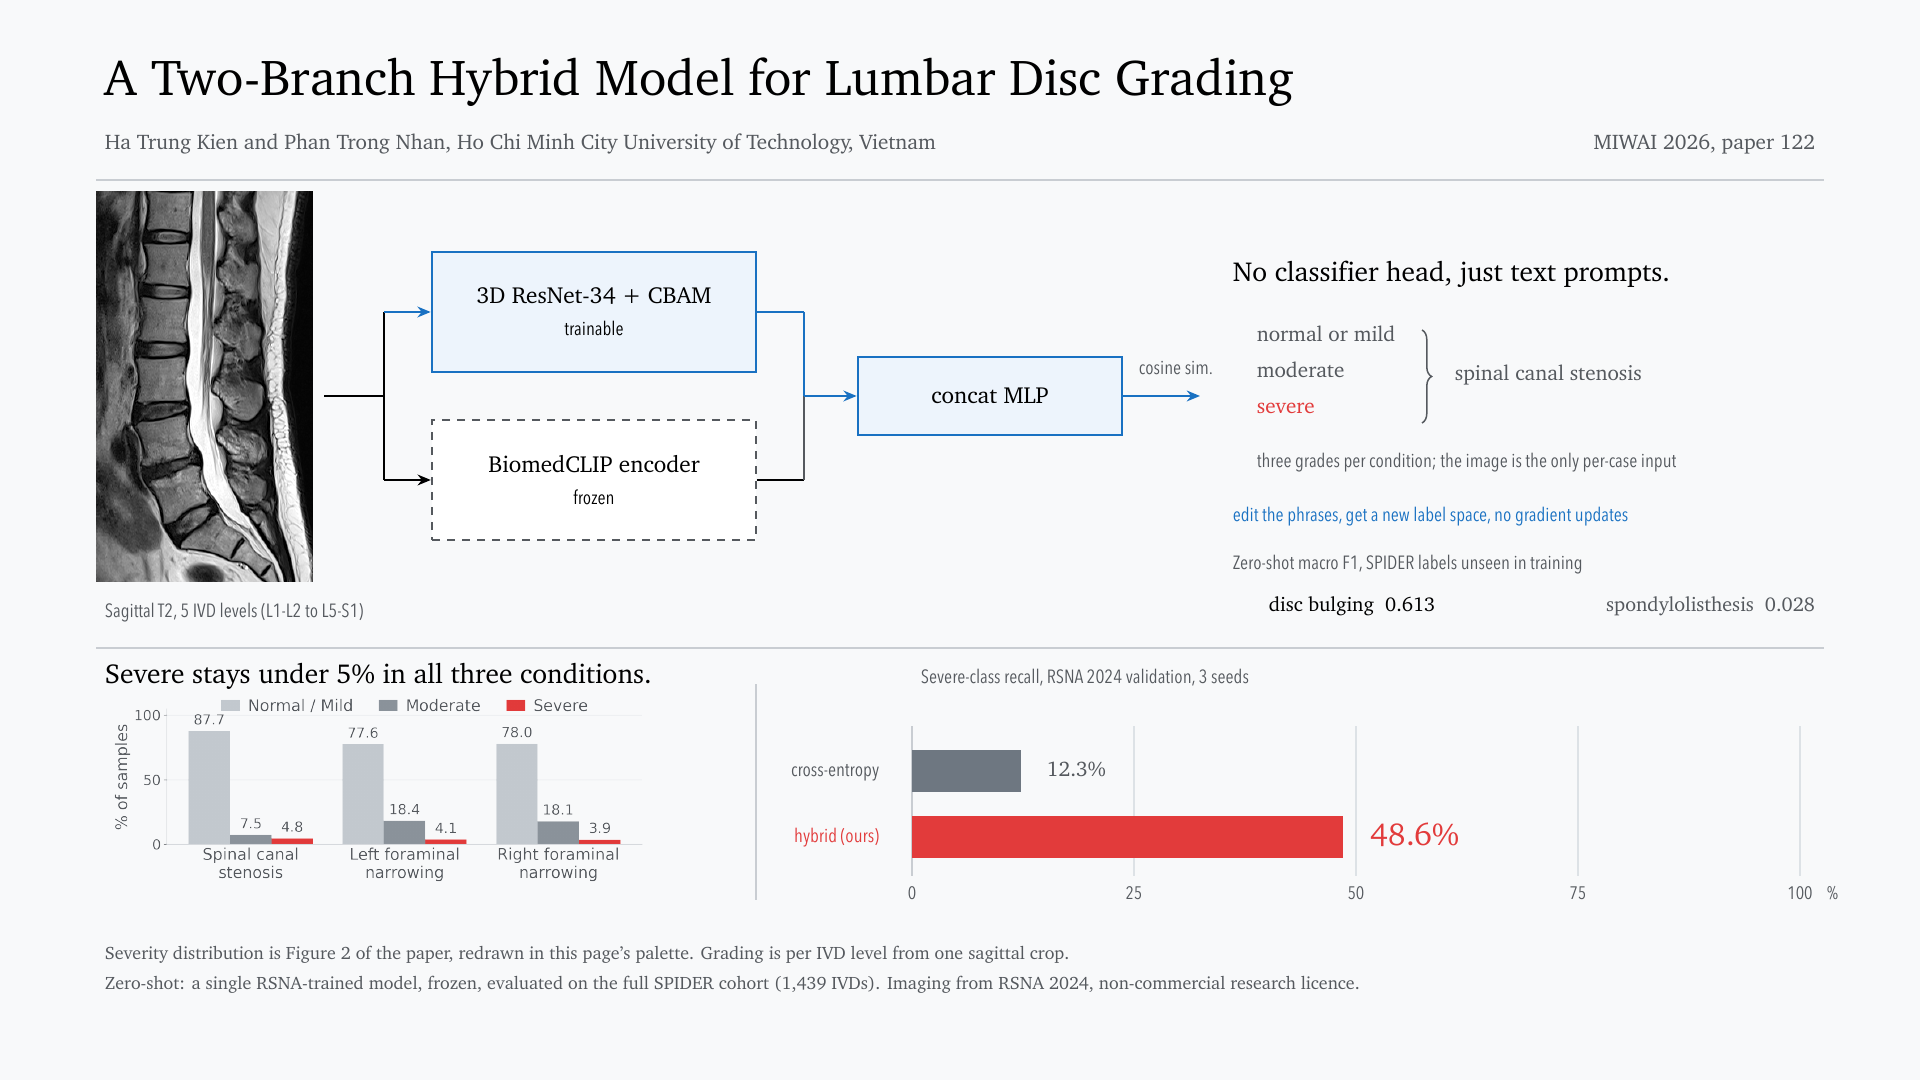
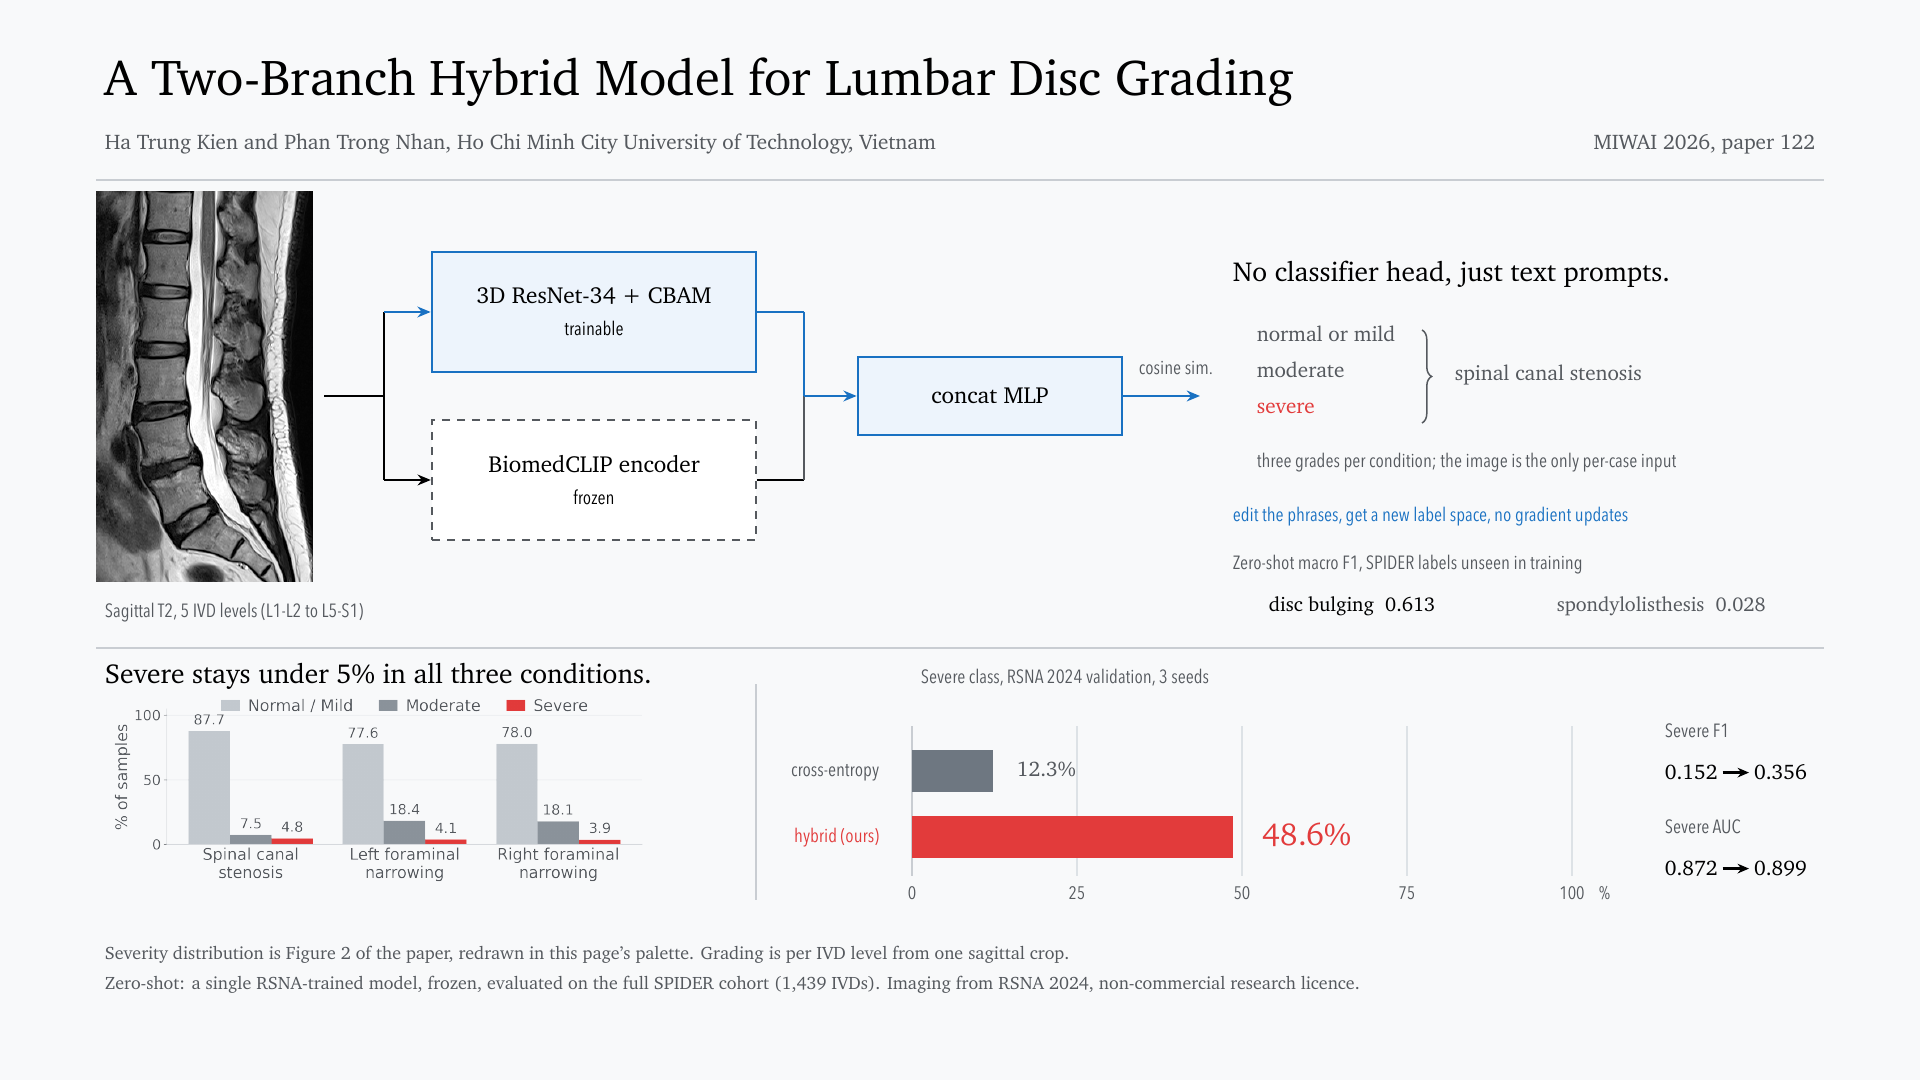
miwai(async): shorten the recall chart, add two metrics, join the zero-shot pair
The recall axis ran 148mm for one number. It is 110mm now, and the width it
gives back carries Severe F1 and Severe AUC from Table 1, so the band reports
three Severe metrics instead of one. AUC is included precisely because it
barely moves: 0.872 to 0.899 says the ranking was already decent and what the
recipe fixed was the operating point, which is the honest reading of the
result.

The two zero-shot numbers sat at opposite edges of the block and read as two
unrelated facts. They are adjacent now.

The arrow macro had been deleted along with the displayed equation and was
still referenced, and the new arrows repeated the swallowed-space bug from the
first time: LaTeX eats the space after a control word, so they set solid
against the digits.

diff --git a/paper/camera_ready/miwai_async/infographic.tex b/paper/camera_ready/miwai_async/infographic.tex
@@ -59,6 +59,9 @@
 \definecolor{waffle}{HTML}{C3C9CF}
 \definecolor{grid}{HTML}{DDE2E6}
 
+\newcommand{\arr}{\raisebox{0.18ex}{\tikz[baseline=-0.55ex]
+  \draw[-{Stealth[length=1.9mm,width=1.6mm]},line width=0.5mm](0,0)--(4.4mm,0);}}
+
 \begin{document}
 \begin{tikzpicture}[x=1mm,y=1mm,
   box/.style={draw=trained, line width=0.45mm, fill=trainedbg, minimum height=20mm,
@@ -154,7 +157,7 @@
 \node[anchor=base west, text=ink70, font=\cond\fontsize{9}{11}\selectfont]
      at (204,85) {Zero-shot macro F1, SPIDER labels unseen in training};
 \node[anchor=base west, font=\fontsize{9.5}{12}\selectfont] at (210,78) {disc bulging \ 0.613};
-\node[anchor=base east, text=ink70, font=\fontsize{9.5}{12}\selectfont] at (304,78) {spondylolisthesis \ 0.028};
+\node[anchor=base west, text=ink70, font=\fontsize{9.5}{12}\selectfont] at (258,78) {spondylolisthesis \ 0.028};
 
 \draw[rule, line width=0.2mm] (16,72) -- (304,72);
 
@@ -172,24 +175,32 @@
 \draw[rule, line width=0.2mm] (126,30) -- (126,66);
 
 % A real axis instead of a track: gridlines carry the scale, so the bars can
-% be solid and dark enough to read.
+% be solid and dark enough to read. The axis is 110mm rather than 148mm, which
+% was a lot of page for a single metric; the width it gives back holds the two
+% other Severe numbers from Table 1 of the paper.
 \node[anchor=base west, text=ink70, font=\cond\fontsize{9}{11}\selectfont]
-     at (152,66) {Severe-class recall, RSNA 2024 validation, 3 seeds};
+     at (152,66) {Severe class, RSNA 2024 validation, 3 seeds};
 
-\foreach \x in {189,226,263,300} \draw[grid, line width=0.2mm] (\x,34) -- (\x,59);
+\foreach \x in {179.5,207,234.5,262} \draw[grid, line width=0.2mm] (\x,34) -- (\x,59);
 \draw[rule, line width=0.3mm] (152,34) -- (152,59);
 
-\fill[bar2]   (152,48) rectangle ++(18.2,7);
-\fill[signal] (152,37) rectangle ++(71.9,7);
+\fill[bar2]   (152,48) rectangle ++(13.5,7);
+\fill[signal] (152,37) rectangle ++(53.5,7);
 
 \node[anchor=base east, text=ink70, font=\cond\fontsize{9}{11}\selectfont] at (148,50.5) {cross-entropy};
 \node[anchor=base east, text=signal, font=\cond\fontsize{9}{11}\selectfont] at (148,39.5) {hybrid (ours)};
-\node[anchor=base west, text=ink70, font=\fontsize{10}{12}\selectfont] at (173,50.5) {12.3\%};
-\node[anchor=base west, text=signal, font=\fontsize{15}{17}\selectfont] at (227,39) {48.6\%};
+\node[anchor=base west, text=ink70, font=\fontsize{10}{12}\selectfont] at (168,50.5) {12.3\%};
+\node[anchor=base west, text=signal, font=\fontsize{15}{17}\selectfont] at (209,39) {48.6\%};
 
-\foreach \x/\lab in {152/0,189/25,226/50,263/75,300/100} {
+\foreach \x/\lab in {152/0,179.5/25,207/50,234.5/75,262/100} {
   \node[anchor=base, text=ink70, font=\cond\fontsize{8.5}{10}\selectfont] at (\x,30) {\lab};}
-\node[anchor=base west, text=ink70, font=\cond\fontsize{8.5}{10}\selectfont] at (303,30) {\%};
+\node[anchor=base west, text=ink70, font=\cond\fontsize{8.5}{10}\selectfont] at (265,30) {\%};
+
+% Recall is the headline; these two say what the rest of the Severe column did.
+\node[anchor=base west, text=ink70, font=\cond\fontsize{9}{11}\selectfont] at (276,57) {Severe F1};
+\node[anchor=base west, font=\fontsize{10}{12}\selectfont] at (276,50) {0.152\,\arr\,0.356};
+\node[anchor=base west, text=ink70, font=\cond\fontsize{9}{11}\selectfont] at (276,41) {Severe AUC};
+\node[anchor=base west, font=\fontsize{10}{12}\selectfont] at (276,34) {0.872\,\arr\,0.899};
 
 %% ------------------------------------------------------------- provenance
 \node[anchor=base west, text=ink70, font=\fontsize{8.5}{11}\selectfont]
